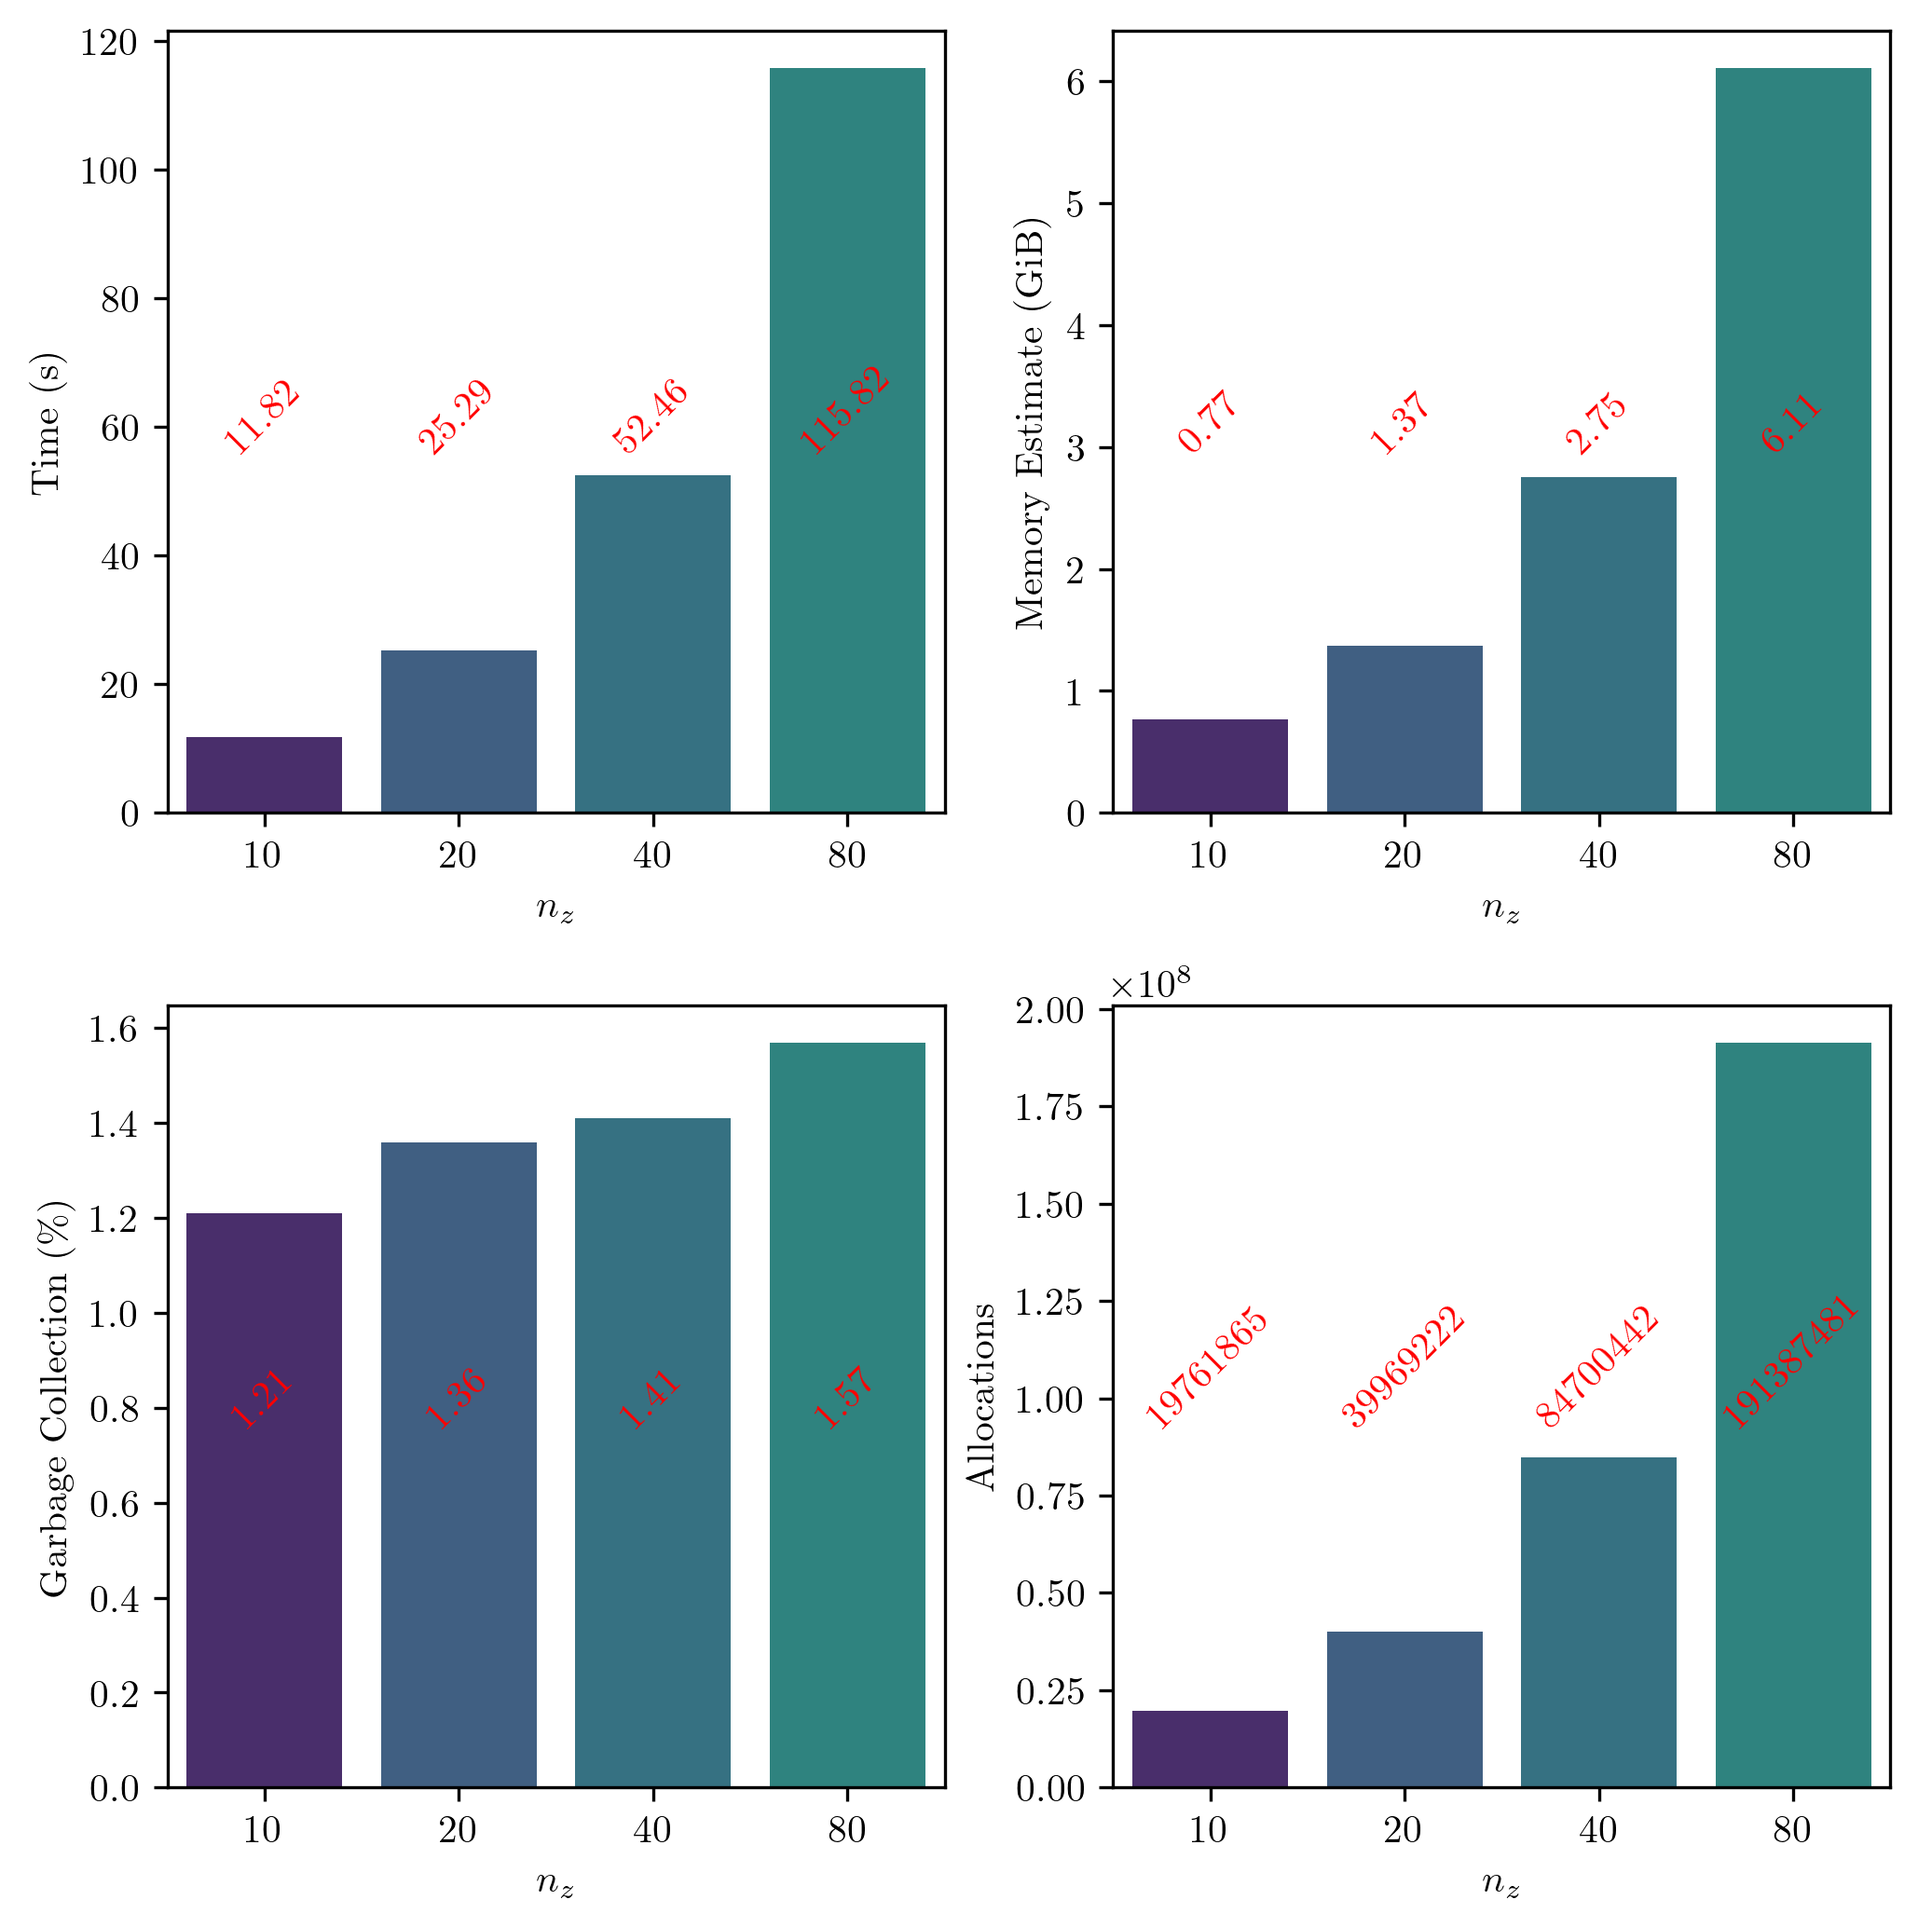
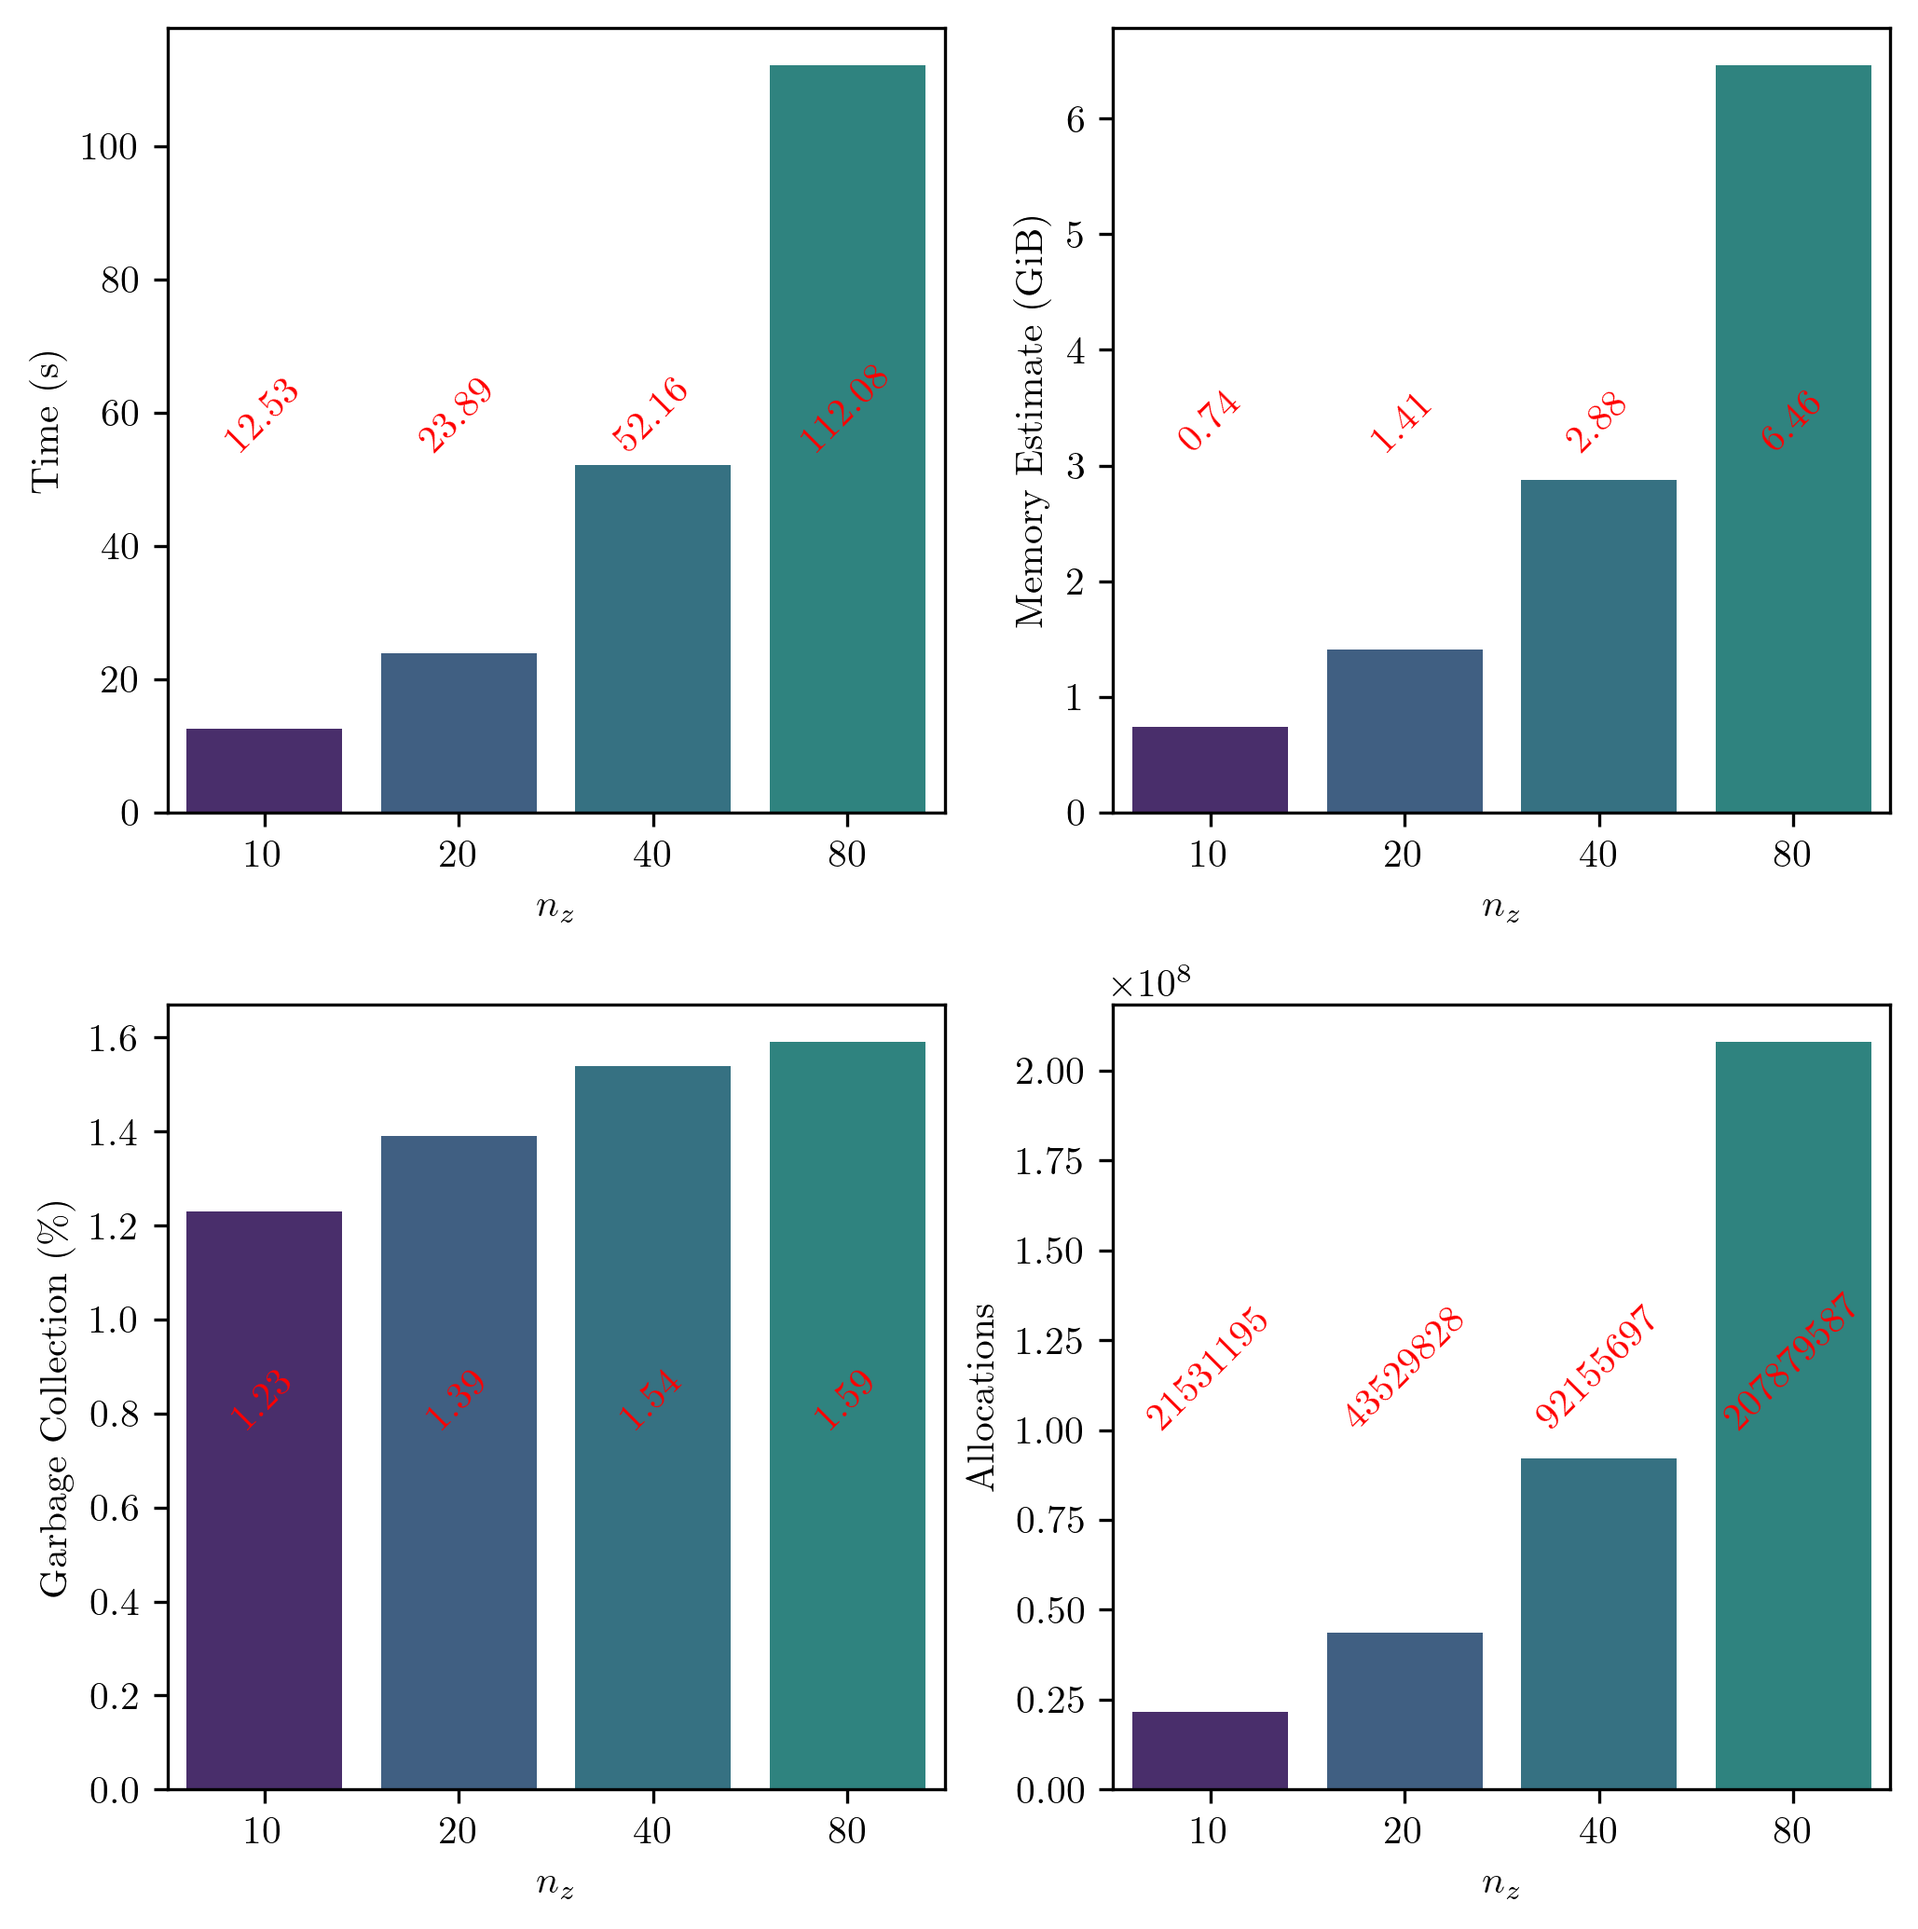
bench mixed prec

diff --git a/plotting/benchmark/plot_cost.py b/plotting/benchmark/plot_cost.py
@@ -12,18 +12,18 @@ plt.rcParams.update({
 
 latent_dim = pd.DataFrame({
     r"$n_z$" : [10, 20, 40, 80],
-    "Time (s)" : [11.822, 25.286, 52.460, 115.819],
-    "Memory Estimate (GiB)" : [0.765, 1.37, 2.75, 6.11],
-    "Garbage Collection (%)" : [1.21, 1.36, 1.41, 1.57],
-    "Allocations" : [19761865, 39969222, 84700442, 191387481],
+    "Time (s)" : [12.530, 23.890, 52.157, 112.079],
+    "Memory Estimate (GiB)" : [0.745, 1.41, 2.88, 6.46],  
+    "Garbage Collection (%)" : [1.23, 1.39, 1.54, 1.59],
+    "Allocations" : [21531195, 43529828, 92155697, 207879587],
 })
 
 mala_steps = pd.DataFrame({
     r"$N_{\text{local}}$" : [5, 10, 15, 20],
-    "Time (s)" : [118.016, 195.506, 296.853, 358.171],
-    "Memory Estimate (GiB)" : [5.23, 8.07, 11.56, 13.99],
-    "Garbage Collection (%)" : [6.93, 9.30, 10.69, 11.19],
-    "Allocations" : [140662639, 211004590, 301893502, 359160341],
+    "Time (s)" : [77.949, 106.510, 151.397, 162.914],
+    "Memory Estimate (GiB)" : [4.88, 7.04, 9.20, 11.36],
+    "Garbage Collection (%)" : [1.49, 1.44, 1.70, 1.57],
+    "Allocations" : [116381878, 144419303, 172428259, 200451545],
 })
 
 keys = [r"$n_z$", r"$N_{\text{local}}$"]
